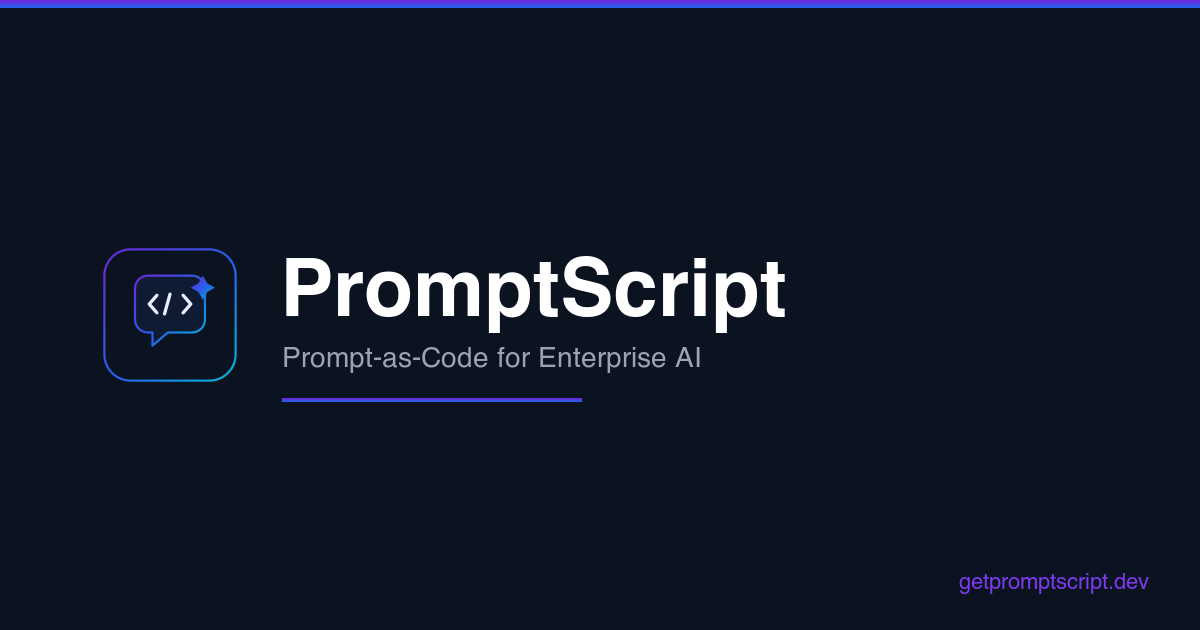
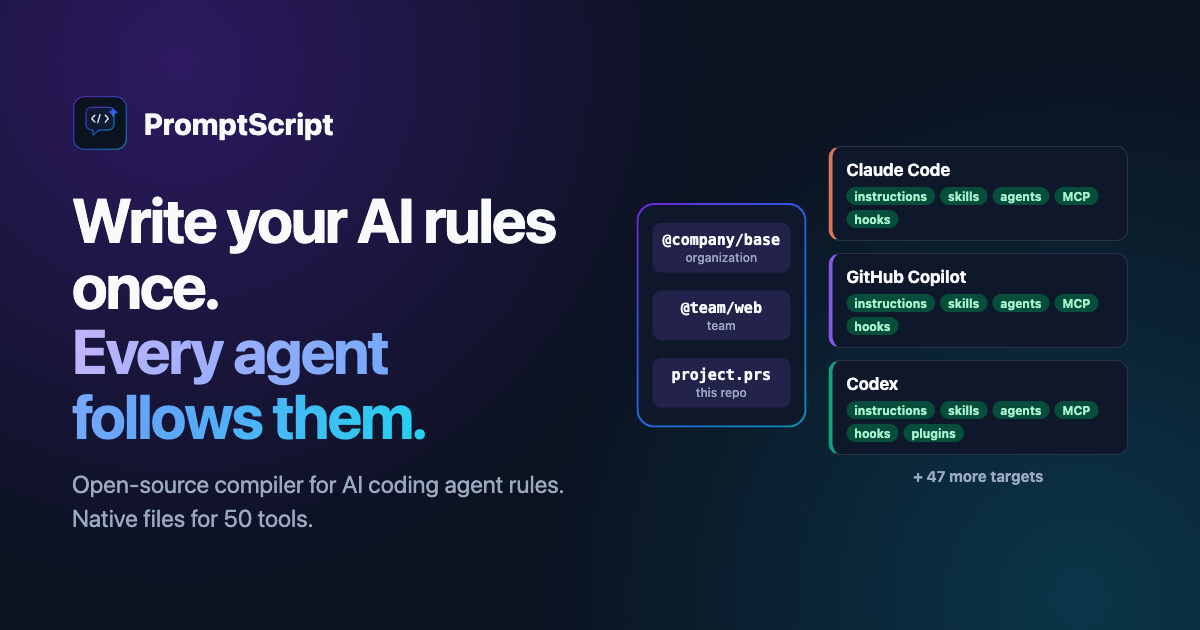
feat(docs): add homepage FAQ data and refresh OG image

diff --git a/apps/docs/og/og-image.html b/apps/docs/og/og-image.html
@@ -1,0 +1,172 @@
+<!doctype html>
+<!--
+  Source of public/assets/images/og-image.png (1200x630).
+  To regenerate, open this file in a browser at 1200x630 and take a screenshot,
+  for example with Playwright: page.setViewportSize({ width: 1200, height: 630 }).
+-->
+<html lang="en">
+  <head>
+    <meta charset="utf-8" />
+    <style>
+      * {
+        box-sizing: border-box;
+      }
+      body {
+        width: 1200px;
+        height: 630px;
+        margin: 0;
+        overflow: hidden;
+        color: #f8fafc;
+        background:
+          radial-gradient(circle at 15% 10%, rgba(109, 40, 217, 0.35), transparent 45%),
+          radial-gradient(circle at 90% 95%, rgba(8, 145, 178, 0.28), transparent 45%), #0b1220;
+        font-family:
+          Inter,
+          'Segoe UI',
+          system-ui,
+          -apple-system,
+          sans-serif;
+      }
+      .wrap {
+        display: grid;
+        grid-template-columns: 1.05fr 1fr;
+        gap: 48px;
+        align-items: center;
+        height: 100%;
+        padding: 64px 72px;
+      }
+      .brand {
+        display: flex;
+        align-items: center;
+        gap: 16px;
+        font-size: 30px;
+        font-weight: 750;
+      }
+      .brand img {
+        width: 56px;
+        height: 56px;
+      }
+      h1 {
+        margin: 36px 0 20px;
+        font-size: 62px;
+        line-height: 1.05;
+        letter-spacing: -0.03em;
+      }
+      h1 span {
+        background: linear-gradient(112deg, #c4b5fd, #60a5fa 60%, #22d3ee);
+        -webkit-background-clip: text;
+        background-clip: text;
+        color: transparent;
+      }
+      p {
+        margin: 0;
+        color: #9aa9bf;
+        font-size: 24px;
+        line-height: 1.4;
+      }
+      .visual {
+        display: grid;
+        grid-template-columns: 170px 1fr;
+        gap: 22px;
+        align-items: center;
+      }
+      .chain {
+        display: grid;
+        gap: 18px;
+        padding: 18px 14px;
+        text-align: center;
+        background:
+          linear-gradient(#0f172a, #0f172a) padding-box,
+          linear-gradient(135deg, #6d28d9, #2563eb, #0891b2) border-box;
+        border: 2px solid transparent;
+        border-radius: 18px;
+      }
+      .chain div {
+        padding: 8px 6px;
+        background: rgba(139, 92, 246, 0.16);
+        border-radius: 9px;
+        font-family: ui-monospace, 'SF Mono', Menlo, monospace;
+        font-size: 15px;
+        font-weight: 700;
+      }
+      .chain small {
+        display: block;
+        margin-top: 2px;
+        color: #9aa9bf;
+        font-family: Inter, system-ui, sans-serif;
+        font-size: 12px;
+        font-weight: 500;
+      }
+      .files {
+        display: grid;
+        gap: 12px;
+      }
+      .file {
+        padding: 12px 14px;
+        background: #0f172a;
+        border: 1px solid rgba(148, 163, 184, 0.2);
+        border-left: 4px solid var(--c);
+        border-radius: 12px;
+      }
+      .file strong {
+        font-size: 17px;
+      }
+      .chips {
+        display: flex;
+        flex-wrap: wrap;
+        gap: 5px;
+        margin-top: 8px;
+      }
+      .chips b {
+        padding: 2px 8px;
+        color: #a7f3d0;
+        background: #064e3b;
+        border-radius: 999px;
+        font-size: 12px;
+      }
+      .more {
+        color: #9aa9bf;
+        font-size: 15px;
+        font-weight: 700;
+        text-align: center;
+      }
+    </style>
+  </head>
+  <body>
+    <div class="wrap">
+      <div>
+        <div class="brand"><img src="../public/assets/images/logo.svg" alt="" />PromptScript</div>
+        <h1>Write your AI rules once.<br /><span>Every agent follows them.</span></h1>
+        <p>Open-source compiler for AI coding agent rules. Native files for 50 tools.</p>
+      </div>
+      <div class="visual">
+        <div class="chain">
+          <div>@company/base<small>organization</small></div>
+          <div>@team/web<small>team</small></div>
+          <div>project.prs<small>this repo</small></div>
+        </div>
+        <div class="files">
+          <div class="file" style="--c: #d97757">
+            <strong>Claude Code</strong>
+            <div class="chips">
+              <b>instructions</b><b>skills</b><b>agents</b><b>MCP</b><b>hooks</b>
+            </div>
+          </div>
+          <div class="file" style="--c: #8957e5">
+            <strong>GitHub Copilot</strong>
+            <div class="chips">
+              <b>instructions</b><b>skills</b><b>agents</b><b>MCP</b><b>hooks</b>
+            </div>
+          </div>
+          <div class="file" style="--c: #10a37f">
+            <strong>Codex</strong>
+            <div class="chips">
+              <b>instructions</b><b>skills</b><b>agents</b><b>MCP</b><b>hooks</b><b>plugins</b>
+            </div>
+          </div>
+          <div class="more">+ 47 more targets</div>
+        </div>
+      </div>
+    </div>
+  </body>
+</html>

diff --git a/apps/docs/src/faq.ts b/apps/docs/src/faq.ts
@@ -1,0 +1,57 @@
+// Homepage FAQ. One list feeds both the visible section and the FAQPage
+// structured data, so answer engines quote the same text readers see.
+
+export interface FaqItem {
+  question: string;
+  answer: string;
+}
+
+export const HOME_FAQ: readonly FaqItem[] = [
+  {
+    question: 'What is PromptScript?',
+    answer:
+      'PromptScript is an open-source compiler for AI coding agent configuration. You write instructions, skills, agents, MCP servers, hooks, and plugins in .prs files, and it generates the native files for 50 tools, such as CLAUDE.md, .github/copilot-instructions.md, and Cursor rules.',
+  },
+  {
+    question: 'Which AI coding tools does it support?',
+    answer:
+      'It compiles to 50 targets, including Claude Code, GitHub Copilot, Cursor, Codex, Gemini CLI, Windsurf, Factory AI, and OpenCode. Each target gets the file layout and format that tool reads.',
+  },
+  {
+    question: 'How is it different from a shared AGENTS.md file?',
+    answer:
+      'AGENTS.md is one file that some tools read. PromptScript is the source behind it: it adds inheritance across repositories, parameters, skills, agents, MCP servers, validation, and a security scan, and it writes AGENTS.md together with the formats of every other tool.',
+  },
+  {
+    question: 'Can I start from the instruction files I already have?',
+    answer:
+      'Yes. prs import converts an existing CLAUDE.md, Copilot, Cursor, or AGENTS.md file, prs migrate imports a whole project, and the built-in promptscript skill lets your AI agent do the migration for you.',
+  },
+  {
+    question: 'How do teams share one configuration?',
+    answer:
+      'Publish a Git registry with prs registry init and prs registry publish, then inherit it in every project with @inherit. Remote imports are pinned by commit and sha256 hash in promptscript.lock, and prs vendor sync copies them for offline builds.',
+  },
+  {
+    question: 'Does PromptScript send my prompts anywhere?',
+    answer:
+      'No. Compilation runs on your machine or in your CI. Anonymous usage telemetry is on by default and never includes source, prompts, compiled output, file paths, or project names. Turn it off with prs telemetry disable or DO_NOT_TRACK=1.',
+  },
+  {
+    question: 'Is PromptScript free?',
+    answer:
+      'Yes. PromptScript is open source under the MIT license. The CLI is published on npm as @promptscript/cli.',
+  },
+];
+
+const escapeHtml = (text: string): string =>
+  text.replaceAll('&', '&amp;').replaceAll('<', '&lt;').replaceAll('>', '&gt;');
+
+export function faqHtml(items: readonly FaqItem[]): string {
+  return items
+    .map(
+      (item) =>
+        `<details class="home-faq__item"><summary>${escapeHtml(item.question)}</summary><p>${escapeHtml(item.answer)}</p></details>`
+    )
+    .join('\n');
+}

diff --git a/apps/docs/src/seo.spec.ts b/apps/docs/src/seo.spec.ts
@@ -1,5 +1,5 @@
 import { describe, expect, it } from 'vitest';
-import { homeJsonLd, jsonLdTag, pageJsonLd } from './seo';
+import { faqJsonLd, homeJsonLd, jsonLdTag, pageJsonLd } from './seo';
 
 const parse = (content: string): { '@graph': Record<string, unknown>[] } => JSON.parse(content);
 
@@ -67,5 +67,20 @@ describe('pageJsonLd', () => {
 
     expect(article).not.toHaveProperty('description');
     expect(article).not.toHaveProperty('dateModified');
+  });
+});
+
+describe('faqJsonLd', () => {
+  it('turns each item into a question with an accepted answer', () => {
+    const graph = parse(faqJsonLd([{ question: 'Is it free?', answer: 'Yes.' }]).content)['@graph'];
+
+    expect(graph[0]['@type']).toBe('FAQPage');
+    expect(graph[0].mainEntity).toEqual([
+      {
+        '@type': 'Question',
+        name: 'Is it free?',
+        acceptedAnswer: { '@type': 'Answer', text: 'Yes.' },
+      },
+    ]);
   });
 });

diff --git a/apps/docs/src/faq.spec.ts b/apps/docs/src/faq.spec.ts
@@ -1,0 +1,19 @@
+import { describe, expect, it } from 'vitest';
+import { HOME_FAQ, faqHtml } from './faq';
+
+describe('faqHtml', () => {
+  it('renders one details element per item and escapes markup', () => {
+    const html = faqHtml([{ question: 'A <b>?', answer: 'x & y' }]);
+
+    expect(html).toBe(
+      '<details class="home-faq__item"><summary>A &lt;b&gt;?</summary><p>x &amp; y</p></details>'
+    );
+  });
+
+  it('keeps the homepage FAQ non-empty and without duplicate questions', () => {
+    const questions = HOME_FAQ.map((item) => item.question);
+
+    expect(questions.length).toBeGreaterThan(0);
+    expect(new Set(questions).size).toBe(questions.length);
+  });
+});

diff --git a/apps/docs/src/seo.ts b/apps/docs/src/seo.ts
@@ -99,3 +99,16 @@ export function pageJsonLd(article: ArticleInfo, crumbs: readonly Crumb[]): Head
     },
   ]);
 }
+
+export function faqJsonLd(items: readonly { question: string; answer: string }[]): HeadTag {
+  return jsonLdTag([
+    {
+      '@type': 'FAQPage',
+      mainEntity: items.map((item) => ({
+        '@type': 'Question',
+        name: item.question,
+        acceptedAnswer: { '@type': 'Answer', text: item.answer },
+      })),
+    },
+  ]);
+}
